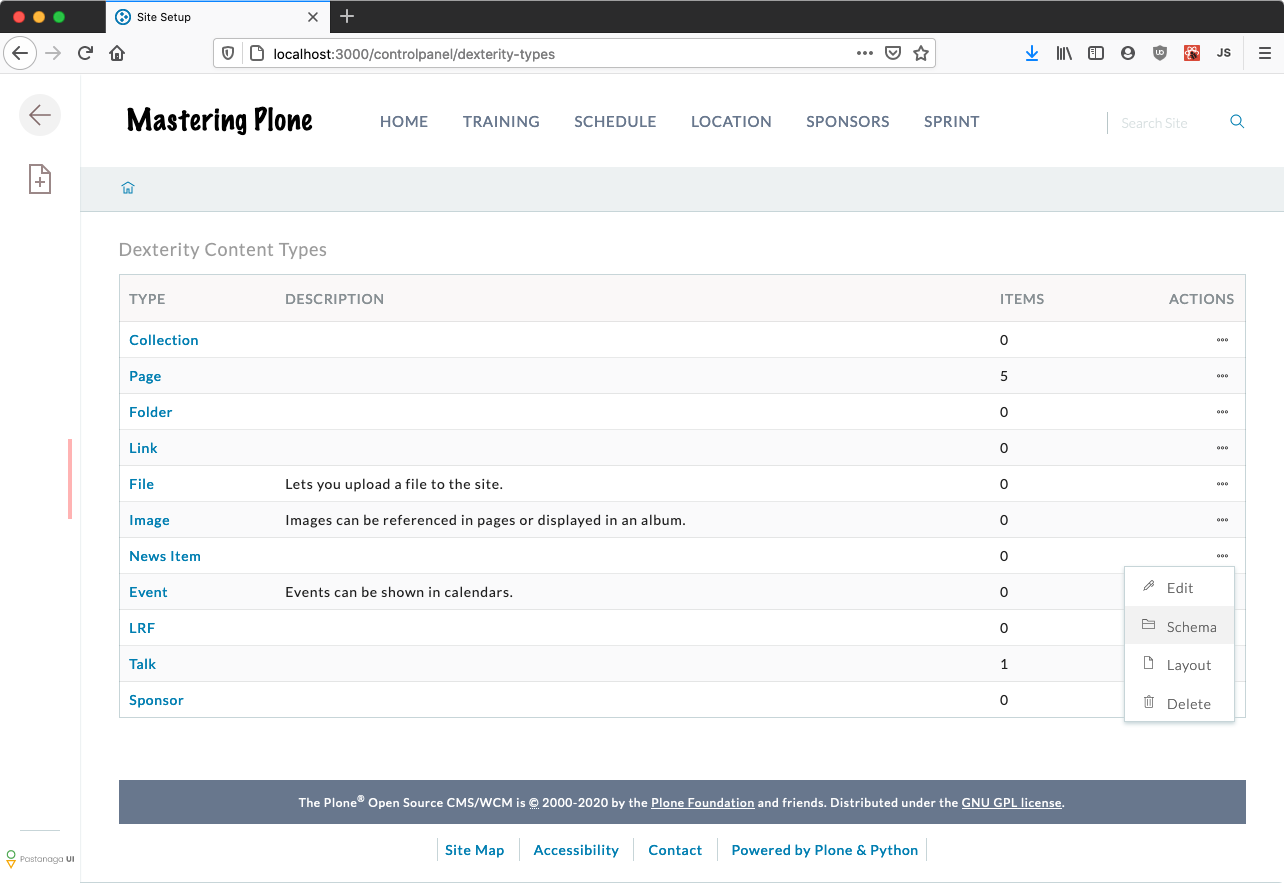
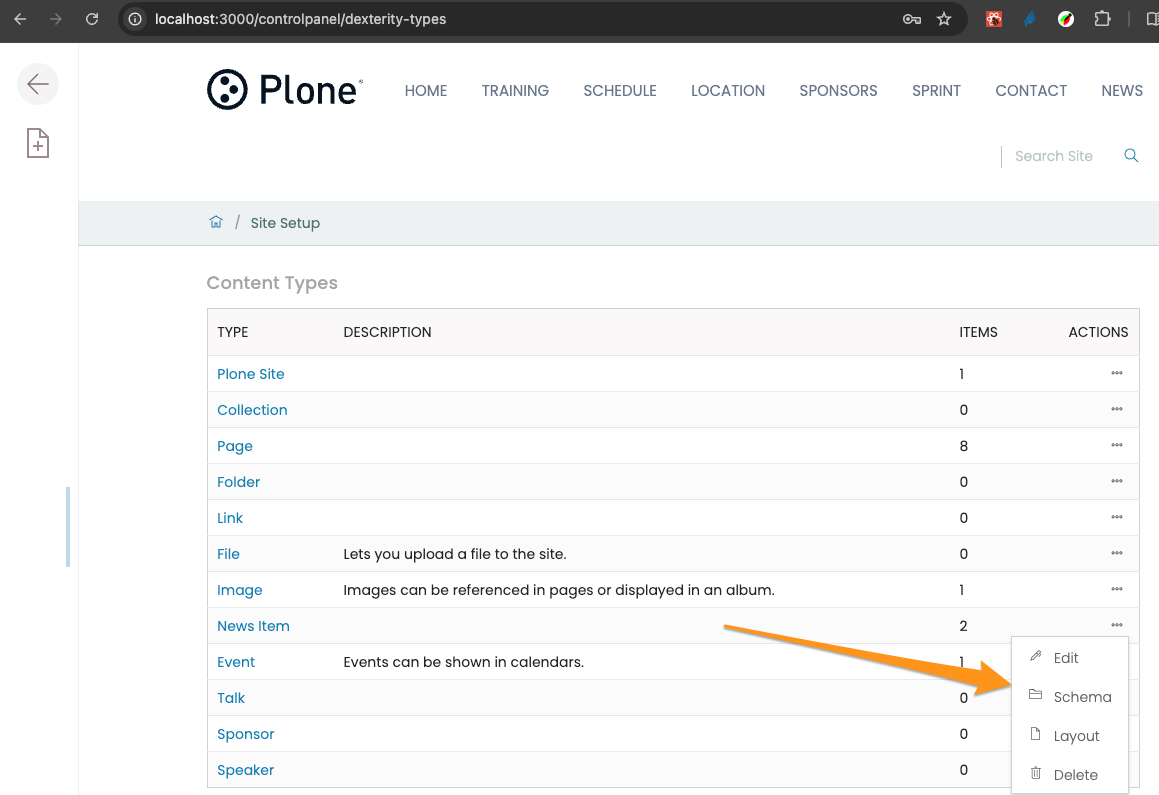
## Modifying existing types: Replace images. Fix link to control panel.

diff --git a/docs/mastering-plone/dexterity.md b/docs/mastering-plone/dexterity.md
@@ -100,38 +100,36 @@ The behavior `plone.excludefromnavigation` adds a attribute `exclude_from_nav` t
 
 For now, we will not code anything.
 We will only use the Plone web interface features.
-If you do not have a local Plone instance installed on your machine, you can use a [Plone pre-configured Heroku instance](https://github.com/collective/training-sandbox).
-Once deployed, create a Plone site, and perform the following steps.
 
-- Go to the control panel <http://localhost:8080/Plone/@@dexterity-types>
+- Go to the control panel <http://localhost:3000/controlpanel/dexterity-types>
 
 - Inspect some of the existing default types.
 
-- Select the type {guilabel}`News Item` and click on {guilabel}`Schema`
+- Select {guilabel}`Schema` of the context menu of content type `News Item`.
 
   ```{figure} _static/volto_dexterity_types.png
 
   ```
 
-- Add a new field `Hot News` of type {guilabel}`Yes/No`
+- Add a new field `Show this item on the frontpage` of type {guilabel}`Yes/No`
 
   ```{figure} _static/volto_edit_schema.png
 
   ```
+  Save your changes.
 
-- In another tab, add a _News Item_ and you'll see the new field.
+- In another tab, add a `News Item` and you'll see the new field.
 
   ```{figure} _static/volto_add_news_item.png
 
   ```
 
-- Note that the only field in the schema of the News Item is the one we just added. All others are provided by behaviors.
+- Note that the only field in the schema of the News Item is the one we just added.
+  All others are provided by behaviors.
 
-- So far the data in the new field `Hot News` is not displayed when rendering the News Item. We'll take care of this later.
+- So far the data in the new field `Show this item on the frontpage` is not displayed when rendering the News Item.
+  We'll take care of this later.
 
-```{seealso}
-<https://5.docs.plone.org/external/plone.app.contenttypes/docs/README.html#extending-the-types>
-```
 
 (dexterity1-create-ttw-label)=
 
